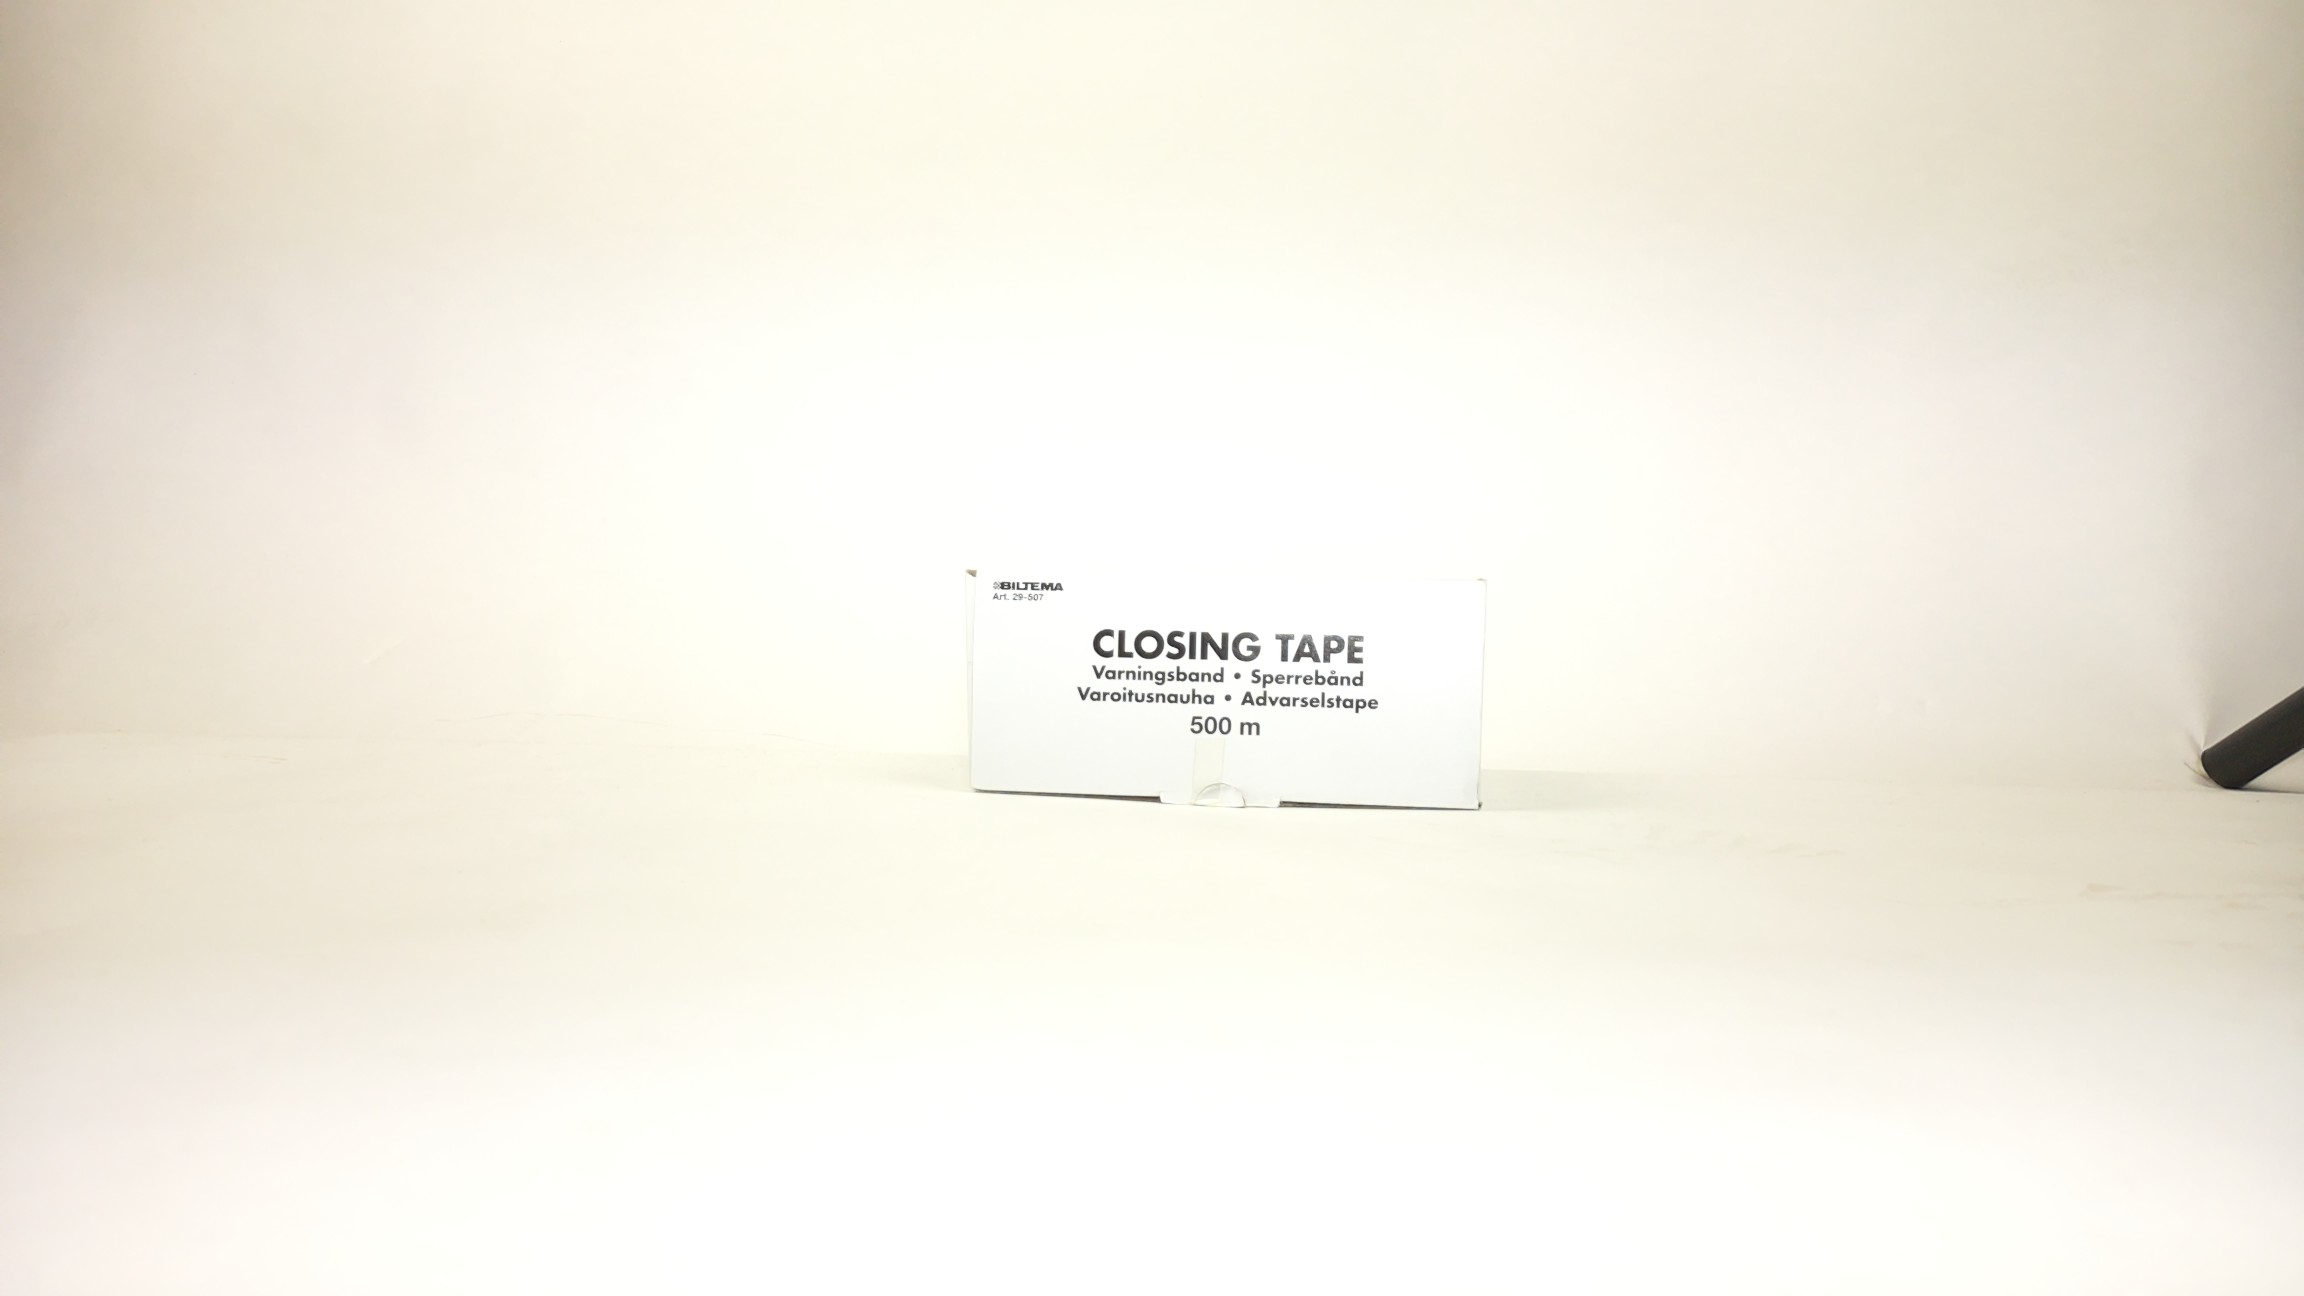
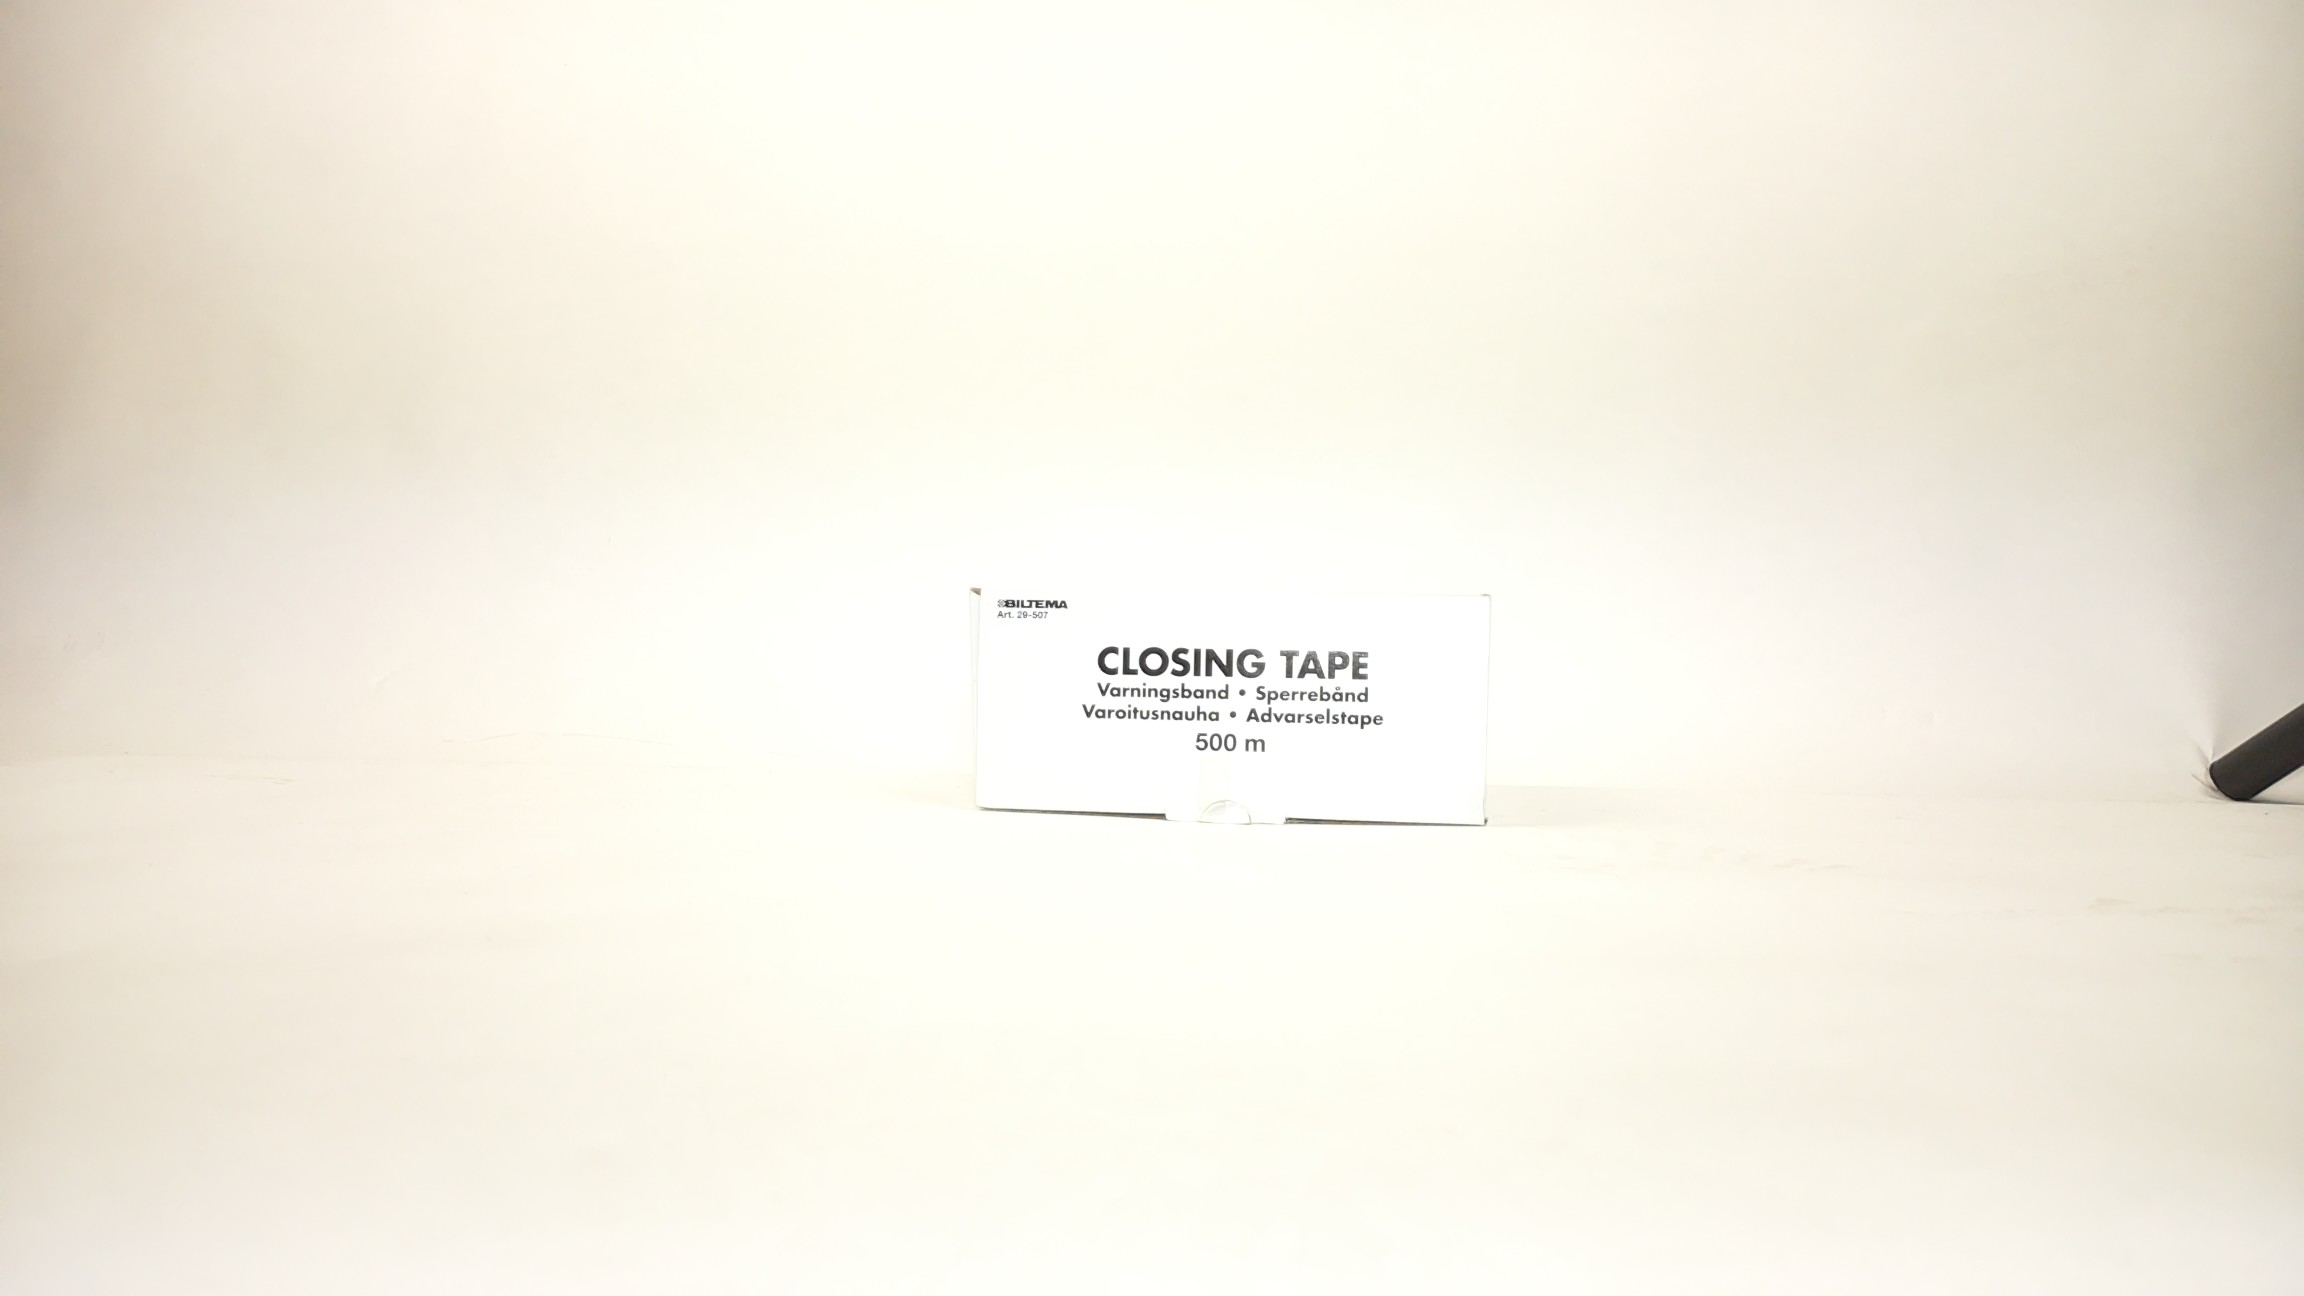
new pictures

diff --git a/tools/libcam.py b/tools/libcam.py
@@ -6,7 +6,7 @@ picam = Picamera2()
 controls = {"ExposureTime": 1800, 
             "AnalogueGain": 1.0, 
             "Brightness": 0.08,
-            "Sharpness":2,
+            "Sharpness":3,
             "AwbMode":5
             }
 config = picam.create_preview_configuration(main={"size": (2304, 1296)}, controls=controls)
